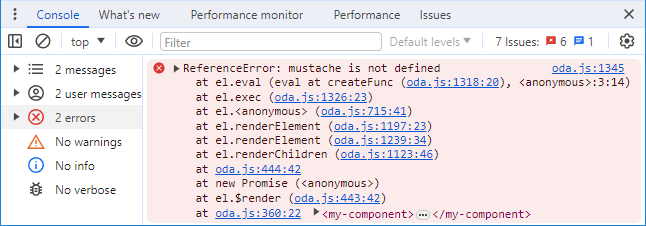
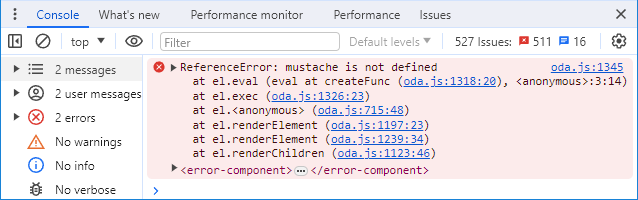
AutoCommit: 81065

Changed region(s): [[0.0, 0.03, 1.0, 1.0], [0.953, 0.03, 0.9828, 0.09], [0.0, 0.03, 0.0298, 0.09]]

diff --git a/learn/_help/ru/structure-template-jsx-{{}}.md b/learn/_help/ru/structure-template-jsx-{{}}.md
@@ -40,10 +40,10 @@ ODA({
     is: 'my-component',
     template: `
         <div>{{mustache}}</div>
-        <button @tap="tap">Нажми меня</button>
+        <button @tap="onTap">Нажми меня</button>
     `,
     mustache: 'Привет, Mustache!',
-    tap() {
+    onTap() {
         this.mustache = this.mustache=='Привет, Mustache!' ? 'Mustache, привет!': 'Привет, Mustache!';
     }
 });
@@ -192,46 +192,61 @@ ODA({
 
 Например,
 
-```html run_edit_error_h=30_
-<script type="module" src="./oda.js"></script>
-<button id="button">Создать компонент</button>
-<my-component></my-component>
-<script type="module">
-    button.onclick = function() {
-        ODA({
-            is: 'my-component',
-            template: `
-                <div>{{mustache}}</div>
-            `
-        });
+```javascript _run_edit_[my-component.js]
+ODA({
+    is: 'error-component',
+    template: `
+        <span>Компонент с ошибкой.</div>
+        <span>{{mustache}}</span>
+    `
+});
+
+ODA({
+    is: 'my-component',
+    template: `
+        <button @tap="onTap">{{text}}</button>
+        <error-component ~if="show"></error-component>
+    `,
+    show: false,
+    text: 'Показать',
+    onTap() {
+        this.show = !this.show;
+        this.text = this.text=='Показать' ? 'Скрыть': 'Показать';
     }
-</script>
+});
 ```
 
-В данном примере при нажатии на кнопку создается компонент, в HTML-шаблоне которого в подстановке используется обращение к несуществующему свойству **mustache**. В результате выдается исключение:
+В данном примере при нажатии на кнопку в DOM-объект компонента **my-component** встраивается **error-component**, в HTML-шаблоне которого в подстановке используется обращение к несуществующему свойству **mustache**. Сразу после встраивания выполняется рендеринг страницы, в процессе которого выдается исключение:
 
 ![Консоль браузера](learn/_help/ru/_images/structure-template-jsx-{{}}-2.png "Консоль браузера")
 
-Если в подстановке обращение к несуществующему свойству осуществляется с помощью указателя **this**, то исключение не генерируется, а в качестве значения свойства используется значение **undefined**.
+Если в подстановке обращение к несуществующему свойству осуществляется с использованием указателя **this**, то исключение не генерируется.
 
 Например,
 
-```html run_edit_error_h=50_
-<script type="module" src="./oda.js"></script>
-<button id="button">Создать компонент</button>
-<my-component></my-component>
-<script type="module">
-    button.onclick = function() {
-        ODA({
-            is: 'my-component',
-            template: `
-                <div>{{this.mustache}}</div>
-            `
-        });
+```javascript _run_edit_[my-component.js]
+ODA({
+    is: 'error-component',
+    template: `
+        <span>Компонент с ошибкой.</div>
+        <span>{{this.mustache}}</span>
+    `
+});
+
+ODA({
+    is: 'my-component',
+    template: `
+        <button @tap="onTap">{{text}}</button>
+        <error-component ~if="show"></error-component>
+    `,
+    show: false,
+    text: 'Показать',
+    onTap() {
+        this.show = !this.show;
+        this.text = this.text=='Показать' ? 'Скрыть': 'Показать';
     }
-</script>
+});
 ```
 
-
-
+В данном примере, в отличие от предыдущего, в подстановке используется полное имя несуществующего свойства **this.mustache**. Благодаря наличию указателя **this** в имени свойства, исключение не вырабатывается.
 
